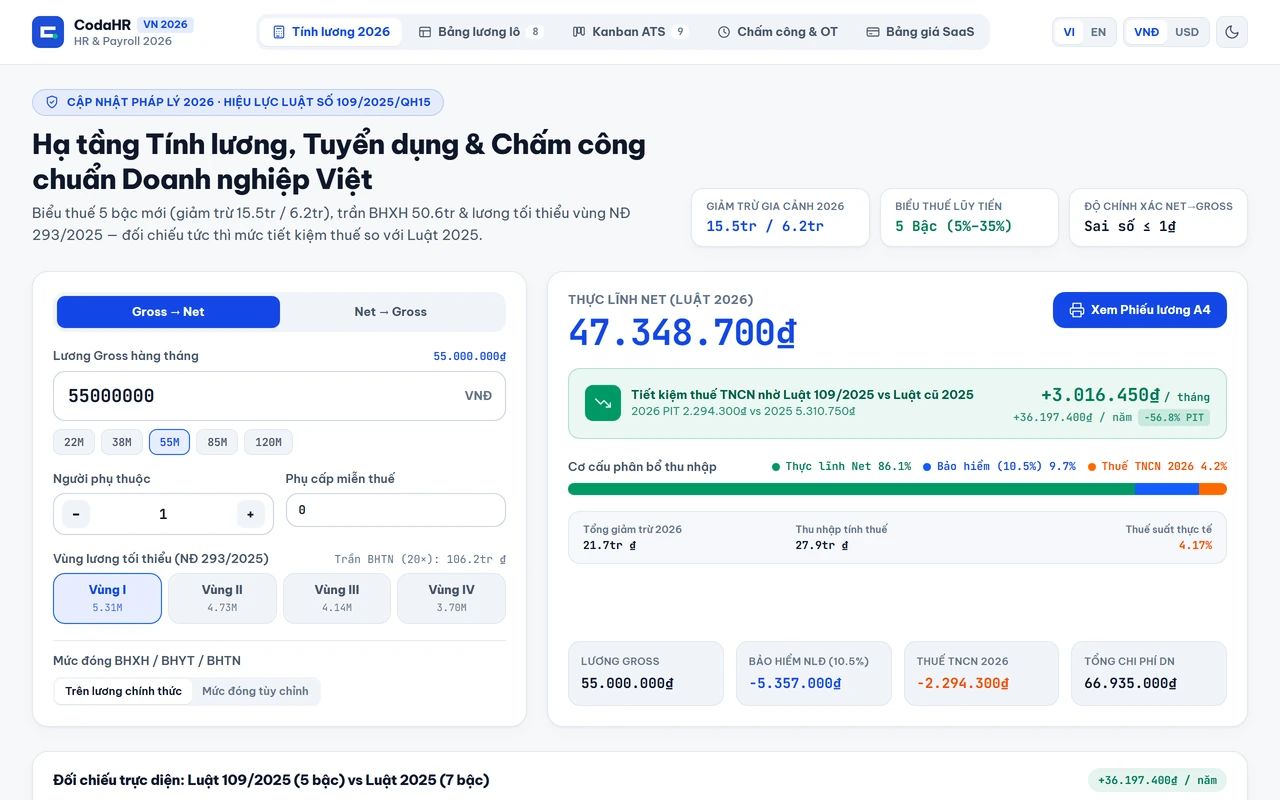
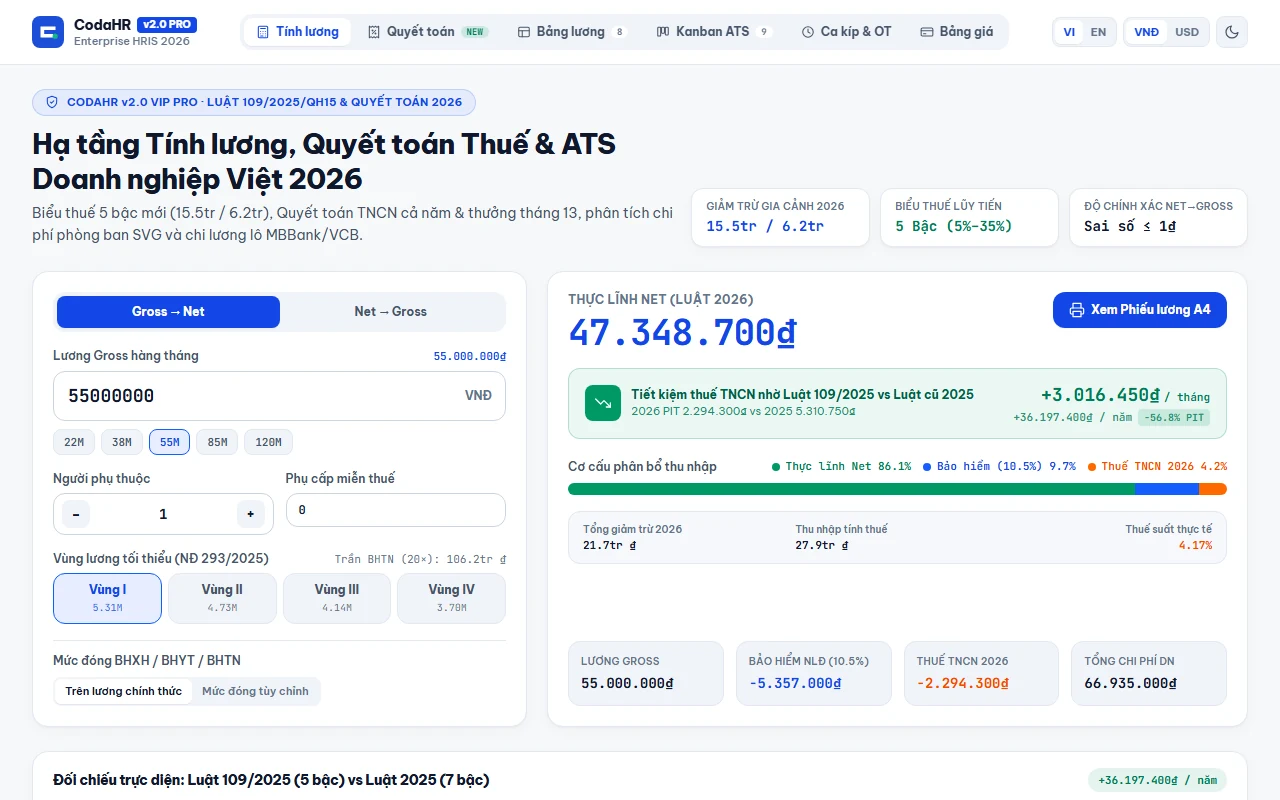
feat(v6.5): Velox EV 20M v2.0 at #2, all 5 enterprise v2.0 flagships synced, TVT Studio v4.0 Admin Portal & 793 CI tests

diff --git a/src/data/atelierContent.ts b/src/data/atelierContent.ts
@@ -21,20 +21,35 @@ export const FLAGSHIP_WORKS: FlagshipWorkItem[] = [
     id: 'tvt-studio',
     index: '01',
     title: 'TVT Studio',
-    version: 'v3.0',
+    version: 'v4.0',
     category: 'commerce',
-    taglineEn: '19-Web Marketplace, Google OAuth, Zero-Trust RLS & Real-Time Techcombank VietQR',
-    taglineVi: 'Chợ 19 Website Mẫu, Google OAuth, Supabase RLS & Thanh Toán VietQR Techcombank',
+    taglineEn: '19-Web Marketplace (10M–23M VIP), Zero-Trust Admin Portal & Live MBBank SePay Auto-Pay',
+    taglineVi: 'Chợ 19 Web Mẫu VIP (10M–23M), Admin Portal Zero-Trust & Tự Động Xác Nhận MBBank SePay',
     previewImage: 'previews/tvt-studio.webp',
-    highlightMetric: '19 Webs + 10 Tools · RLS + OAuth',
-    ciBadge: '39/39 CI',
-    keywords: ['Supabase RLS', 'Google OAuth', 'Live VietQR', 'Source Vault', 'PBKDF2 100K'],
+    highlightMetric: 'Admin Portal · Live MBBank Auto-Pay',
+    ciBadge: '42/42 CI',
+    keywords: ['Admin Portal JWT', 'SePay MBBank 1–3s', 'Google OAuth', 'Supabase RLS', '10M–23M VIP'],
     liveUrl: 'https://tvt987.github.io/tvt-studio/',
     repoUrl: 'https://github.com/tvt987/tvt-studio',
   },
   {
-    id: 'tvt-tools',
+    id: 'velox-ev-motors',
     index: '02',
+    title: 'Velox EV Motors',
+    version: 'v2.0',
+    category: 'commerce',
+    taglineEn: '20M Flagship 3D PBR EV Showroom, 800V X-Ray Chassis, VN 350kW Route Planner & Trade-In',
+    taglineVi: 'Showroom Xe Điện 3D PBR 20 Triệu, X-Ray Pin 800V, Lộ Trình Sạc Xuyên Việt & Thu Cũ Đổi Mới',
+    previewImage: 'previews/velox-ev-motors.webp',
+    highlightMetric: '3D X-Ray 800V · 6 Cameras · VN Routes',
+    ciBadge: '49/49 CI',
+    keywords: ['Three.js PBR X-Ray', '6 Cinema Cams', 'VN 350kW Map', 'Trade-In PMT', 'MBBank VietQR'],
+    liveUrl: 'https://tvt987.github.io/velox-ev-motors/',
+    repoUrl: 'https://github.com/tvt987/velox-ev-motors',
+  },
+  {
+    id: 'tvt-tools',
+    index: '03',
     title: 'TVT Pro Tools',
     version: 'v1.0',
     category: 'systems',
@@ -49,7 +64,7 @@ export const FLAGSHIP_WORKS: FlagshipWorkItem[] = [
   },
   {
     id: 'maison-vera',
-    index: '03',
+    index: '04',
     title: 'Maison Véra',
     version: 'v3.0',
     category: 'commerce',
@@ -64,7 +79,7 @@ export const FLAGSHIP_WORKS: FlagshipWorkItem[] = [
   },
   {
     id: 'atelier-canvas',
-    index: '04',
+    index: '05',
     title: 'Atelier Canvas',
     version: 'v3.0',
     category: 'design',
@@ -76,21 +91,6 @@ export const FLAGSHIP_WORKS: FlagshipWorkItem[] = [
     keywords: ['Multi-Artboard', 'GPU Photo Grade', '3D Stack', 'Dev Mode TSX', 'Yjs CRDT'],
     liveUrl: 'https://tvt987.github.io/atelier-canvas/',
     repoUrl: 'https://github.com/tvt987/atelier-canvas',
-  },
-  {
-    id: 'velox-ev-motors',
-    index: '05',
-    title: 'Velox EV Motors',
-    version: 'v1.0',
-    category: 'commerce',
-    taglineEn: '3D PBR Electric Vehicle Showroom, WLTP Range Physics & 5Y EV vs Petrol TCO',
-    taglineVi: 'Showroom Xe Điện 3D PBR, Mô Phỏng Quãng Đường WLTP & So Sánh Chi Phí 5 Năm',
-    previewImage: 'previews/velox-ev-motors.webp',
-    highlightMetric: 'Three.js PBR EV · WLTP Physics',
-    ciBadge: '25/25 CI',
-    keywords: ['Three.js PBR', 'WLTP Drag Sim', '5Y TCO Math', 'Loan PMT', 'Test-Drive Lock'],
-    liveUrl: 'https://tvt987.github.io/velox-ev-motors/',
-    repoUrl: 'https://github.com/tvt987/velox-ev-motors',
   },
   {
     id: 'lumina-medspa',
@@ -201,14 +201,14 @@ export const FLAGSHIP_WORKS: FlagshipWorkItem[] = [
     id: 'aurelia-resort',
     index: '13',
     title: 'Aurelia Resort',
-    version: 'v1.0',
+    version: 'v2.0',
     category: 'commerce',
-    taglineEn: '5-Star Phu Quoc Resort Masterplan, Dynamic Pricing & Direct VietQR Booking',
-    taglineVi: 'Resort 5 Sao Phú Quốc, Bản Đồ Villa 10 Điểm & Đặt Phòng Trực Tiếp VietQR',
+    taglineEn: '5-Star Phu Quoc Resort: 30-Day Yield Heatmap, MICE/Wedding Planner & Concierge Vault',
+    taglineVi: 'Resort 5 Sao Phú Quốc: Lịch Heatmap 30 Ngày, Sự Kiện MICE/Tiệc Cưới & MBBank VietQR',
     previewImage: 'previews/aurelia-resort.webp',
-    highlightMetric: '10-Pin Masterplan · OTA-Free',
-    ciBadge: '25/25 CI',
-    keywords: ['SVG Masterplan', 'Dynamic Pricing', 'VIP QR Pass', 'ICS Export', 'A4 Voucher'],
+    highlightMetric: '30D Heatmap · MICE -18% OTA',
+    ciBadge: '48/48 CI',
+    keywords: ['30D Yield Heatmap', 'MICE / Wedding', '3 Ambiances', 'Concierge Vault', 'MBBank VietQR'],
     liveUrl: 'https://tvt987.github.io/aurelia-resort/',
     repoUrl: 'https://github.com/tvt987/aurelia-resort',
   },
@@ -276,14 +276,14 @@ export const FLAGSHIP_WORKS: FlagshipWorkItem[] = [
     id: 'meridian-logistics',
     index: '18',
     title: 'Meridian Logistics',
-    version: 'v1.0',
+    version: 'v2.0',
     category: 'enterprise',
-    taglineEn: 'Global Freight Control Tower, Air/Sea CBM Quoter & 6-Stage Waybill Tracker',
-    taglineVi: 'Tháp Điều Phối Vận Tải Biển/Hàng Không, Tính Cước CBM & Tra Cứu Vận Đơn',
+    taglineEn: 'Global Supply Chain Tower: 3D Container Stuffing, Vietnam HS/EVFTA Duty & Exception Alerts',
+    taglineVi: 'Tháp Vận Tải Quốc Tế: Xếp Container 3D Isometric, Thuế HS/EVFTA & Cảnh Báo Sự Cố',
     previewImage: 'previews/meridian-logistics.webp',
-    highlightMetric: 'CBM FCL/LCL · Bill of Lading',
-    ciBadge: '26/26 CI',
-    keywords: ['SVG Corridors', 'Incoterms 2020', 'CBM Volumetric', 'Waybill 6-Step', 'A4 B/L PDF'],
+    highlightMetric: '3D Container Pack · HS/EVFTA',
+    ciBadge: '60/60 CI',
+    keywords: ['3D Container Bay', 'EVFTA / CPTPP', 'Exception Tower', '3-Tab A4 Docs', 'MBBank VietQR'],
     liveUrl: 'https://tvt987.github.io/meridian-logistics/',
     repoUrl: 'https://github.com/tvt987/meridian-logistics',
   },
@@ -291,14 +291,14 @@ export const FLAGSHIP_WORKS: FlagshipWorkItem[] = [
     id: 'coda-hr-payroll',
     index: '19',
     title: 'CodaHR Payroll',
-    version: 'v1.0',
+    version: 'v2.0',
     category: 'enterprise',
-    taglineEn: 'Vietnam 2026 Law 109/2025 Payroll Engine (5 PIT Brackets), Batch CSV & Kanban ATS',
-    taglineVi: 'Tính Lương Luật Thuế TNCN 2026 (5 Bậc Mới), Bảng Lương Excel & Tuyển Dụng ATS',
+    taglineEn: 'Enterprise VN 2026 HRIS: Annual PIT Finalization, 13th-Month Bonus, Bank Batch CSV & ATS',
+    taglineVi: 'HRIS Doanh Nghiệp 2026: Quyết Toán TNCN Năm, Thưởng T13, Xuất Lương Lô MBBank/VCB & ATS',
     previewImage: 'previews/coda-hr-payroll.webp',
-    highlightMetric: '2026 Law 109/2025 · <= 1₫ Solver',
-    ciBadge: '28/28 CI',
-    keywords: ['Gross↔Net 2026', '5 PIT Brackets', 'Batch CSV BOM', 'Kanban ATS', 'A4 Payslip'],
+    highlightMetric: '2026 Finalization · MBBank Batch',
+    ciBadge: '52/52 CI',
+    keywords: ['Annual PIT 2026', 'MBBank/VCB CSV', 'Dept SVG Budget', 'Tax-Exempt OT', 'Kanban ATS'],
     liveUrl: 'https://tvt987.github.io/coda-hr-payroll/',
     repoUrl: 'https://github.com/tvt987/coda-hr-payroll',
   },
@@ -321,14 +321,14 @@ export const FLAGSHIP_WORKS: FlagshipWorkItem[] = [
     id: 'zenith-wealth-fintech',
     index: '21',
     title: 'Zenith Wealth',
-    version: 'v1.0',
+    version: 'v2.0',
     category: 'enterprise',
-    taglineEn: 'Private Wealth Dashboard, 500-Path Monte Carlo FIRE Fan-Chart & Rebalance Engine',
-    taglineVi: 'Quản Lý Gia Sản, Mô Phỏng Monte Carlo 500 Kịch Bản FIRE & Tái Cân Bằng Danh Mục',
+    taglineEn: 'Private Banking Terminal: 40-Node Efficient Frontier, Crisis Stress-Test & VN Tax Optimizer',
+    taglineVi: 'Private Banking: Đường Biên Markowitz 40 Nút, Khủng Hoảng 2008/2022 & Tối Ưu Thuế VN',
     previewImage: 'previews/zenith-wealth-fintech.webp',
-    highlightMetric: '500-Path Monte Carlo · Sharpe',
-    ciBadge: '24/24 CI',
-    keywords: ['Monte Carlo P10–P90', 'FIRE 4% Rule', 'Sharpe / Drawdown', 'Drift Rebalance', 'A4 Brief'],
+    highlightMetric: 'Markowitz Max Sharpe · 4 Crises',
+    ciBadge: '45/45 CI',
+    keywords: ['40-Node Frontier', '4 Crisis Replays', 'VN 0.1%/5% Tax', 'Life Milestones', 'MBBank VietQR'],
     liveUrl: 'https://tvt987.github.io/zenith-wealth-fintech/',
     repoUrl: 'https://github.com/tvt987/zenith-wealth-fintech',
   },

diff --git a/src/engines/aiTwinEngine.ts b/src/engines/aiTwinEngine.ts
@@ -133,15 +133,15 @@ const TWIN_KNOWLEDGE_BASE: KnowledgeEntry[] = [
   },
   {
     id: 'live-flagships',
-    title: 'Twenty-Two Live Production Web Apps & 10 Pro Tools (660+ CI Green)',
+    title: 'Twenty-Two Live Production Web Apps & 10 Pro Tools (793 CI Green)',
     terms: [
       'flagship', 'project', 'portfolio', 'live', 'demo', 'maison', 'vera', 'atelier',
       'canvas', 'aether', 'nexus', 'lake', 'three', 'webgl', 'webgpu', 'duckdb', 'wasm', 'crdt', 'yjs', 'figma', '3d',
       'studio', 'store', 'pos', 'medspa', 'proptech', 'lumina', 'kinetix', 'pulsepos', 'order', 'buy',
       'tools', 'vietqr', 'payroll', 'resort', 'ev', 'velox', 'aurelia', 'solaris', 'kuro', 'vanguard', 'meridian', 'coda', 'veritas', 'nordic', 'zenith',
     ],
-    metrics: ['22 Live Web Apps', '10 Free Pro Tools', '660+ CI Tests Passing', 'Zero-Trust Supabase RLS'],
-    keywords: ['TVT Studio v3.0', 'TVT Pro Tools', 'Velox EV 3D', 'CodaHR 2026', 'Zenith FIRE', 'PulsePOS v2.0'],
+    metrics: ['22 Live Web Apps', '10 Free Pro Tools', '793 CI Tests Passing', 'Live MBBank SePay Auto-Pay'],
+    keywords: ['TVT Studio v4.0', 'Velox EV 3D v2.0', 'Zenith Wealth v2.0', 'CodaHR 2026 v2.0', 'Meridian 3D v2.0', 'Aurelia v2.0'],
     actions: [
       { label: 'TVT Studio Store ↗', href: 'https://tvt987.github.io/tvt-studio/', accent: true },
       { label: '10 Pro Tools Suite ↗', href: 'https://tvt987.github.io/tvt-tools/' },
@@ -318,7 +318,7 @@ export function analyzeJdFit(jdText: string): JdFitReport {
 
   const topSkillsText =
     matchedSkills.slice(0, 5).join(', ') || '.NET 10, Python/FastAPI, React 19, MCP/RAG';
-  const tailoredPitch = `Truong Van Tinh — ${fitScorePct}% Stack Match (${topSkillsText}). Production proof: 700+ retail stores (.NET 8/Dapper/Redis), 139,099 RPS CAS engine, 22 live production apps + 10 Pro Tools (660+ CI green). Remote B2B ($25–$45/hr, 4–6h US/EU/APAC overlap) · tinhkun102@gmail.com`;
+  const tailoredPitch = `Truong Van Tinh — ${fitScorePct}% Stack Match (${topSkillsText}). Production proof: 700+ retail stores (.NET 8/Dapper/Redis), 139,099 RPS CAS engine, 22 live production apps + 10 Pro Tools (793 CI green). Remote B2B ($25–$45/hr, 4–6h US/EU/APAC overlap) · tinhkun102@gmail.com`;
 
   return {
     fitScorePct,

diff --git a/src/App.tsx b/src/App.tsx
@@ -814,7 +814,7 @@ export function App() {
               { value: '700+', labelEn: 'Retail Stores', labelVi: 'Siêu Thị Production' },
               { value: '139K', labelEn: 'Peak RPS (.NET 10)', labelVi: 'Đỉnh Tải RPS (.NET 10)' },
               { value: '22+', labelEn: 'Live Apps & 10 Tools', labelVi: 'Web App & 10 Pro Tools' },
-              { value: '660+', labelEn: 'CI Tests Green', labelVi: 'Test Tự Động Xanh' },
+              { value: '793+', labelEn: 'CI Tests Green', labelVi: 'Test Tự Động Xanh' },
             ].map((m) => (
               <div
                 key={m.value}
@@ -1098,7 +1098,7 @@ export function App() {
       <footer className="relative z-10 py-8 pb-10 md:pb-24 px-5 sm:px-8 border-t border-[var(--hairline)]">
         <div className="max-w-[1200px] mx-auto flex flex-wrap items-center justify-between gap-2 font-mono-tech text-[11px] text-[var(--fg-muted)]">
           <span>© 2026 Truong Van Tinh · Ho Chi Minh City</span>
-          <span>22 Live Apps · 10 Pro Tools · 660+ CI · WebGPU WGSL · Liquid Glass · v6.0</span>
+          <span>22 Live Apps · 10 Pro Tools · 793+ CI · WebGPU WGSL · Liquid Glass · v6.5</span>
         </div>
       </footer>
 
